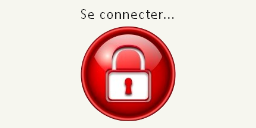
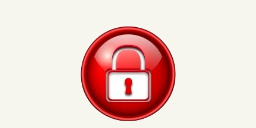
changement bouton
changement bouton

Changed region(s): [[0.3125, 0.0625, 0.6875, 0.1562]]

diff --git a/pages/florent/accueil.html b/pages/florent/accueil.html
@@ -10,16 +10,16 @@
             <article>
                 <h1>Bienvenue sur le site d'organisation de LAN de l'ENSISA !</h1>
                 <h2>Prochain LAN le 22/11/12, à partir de 19h</h2>
-                <a href="#"><img src="inscription.png" alt="connexion" /></a>
-                <a href="#"><img src="plusInfo.png" alt="connexion" /></a>
+                <a href="#"><div class="inscription_button"><img src="inscription_ico.png" alt="inscription" />S'inscrire...</div></a>
+                <a href="#"><div class="plusInfo_button"><img src="plusInfo_ico.png" alt="plusInfos" />Plus d'informations...</div></a>
                 <hr />
             </article>
         </section>
         <section>
             <article>
                 <p><h2>Accéder  l'espace membre : </h2></p>
-                <a href="#"><img src="connect.png" alt="connexion" /></a>
-                <a href="#"><img src="new.png" alt="connexion" /></a>
+                <a href="#"><div class="connexion_button"><img src="connect_ico.png" alt="connexion" />Se connecter...</div></a>
+                <a href="#"><div class="compte_button"><img src="new_ico.png" alt="new" />Créer un compte...</div></a>
                 <hr />
             </article>
         </section>

diff --git a/pages/florent/css.css b/pages/florent/css.css
@@ -1,2 +1,2 @@
-img{box-shadow:1px 1px 5px black;border:1px solid white;border-radius:5px;margin:10px;}
-img:hover{box-shadow:none; border:1px solid #a9a9a9;}
+.inscription_button, .plusInfo_button, .connexion_button, .compte_button{box-shadow:1px 1px 5px black;border:1px solid white;border-radius:5px;margin:10px;padding:10px;display:inline-block;background-color:#f6f6ef;}
+.inscription_button:hover, .plusInfo_button:hover, .connexion_button:hover, .compte_button:hover{box-shadow:none;border:1px solid #a9a9a9;}
